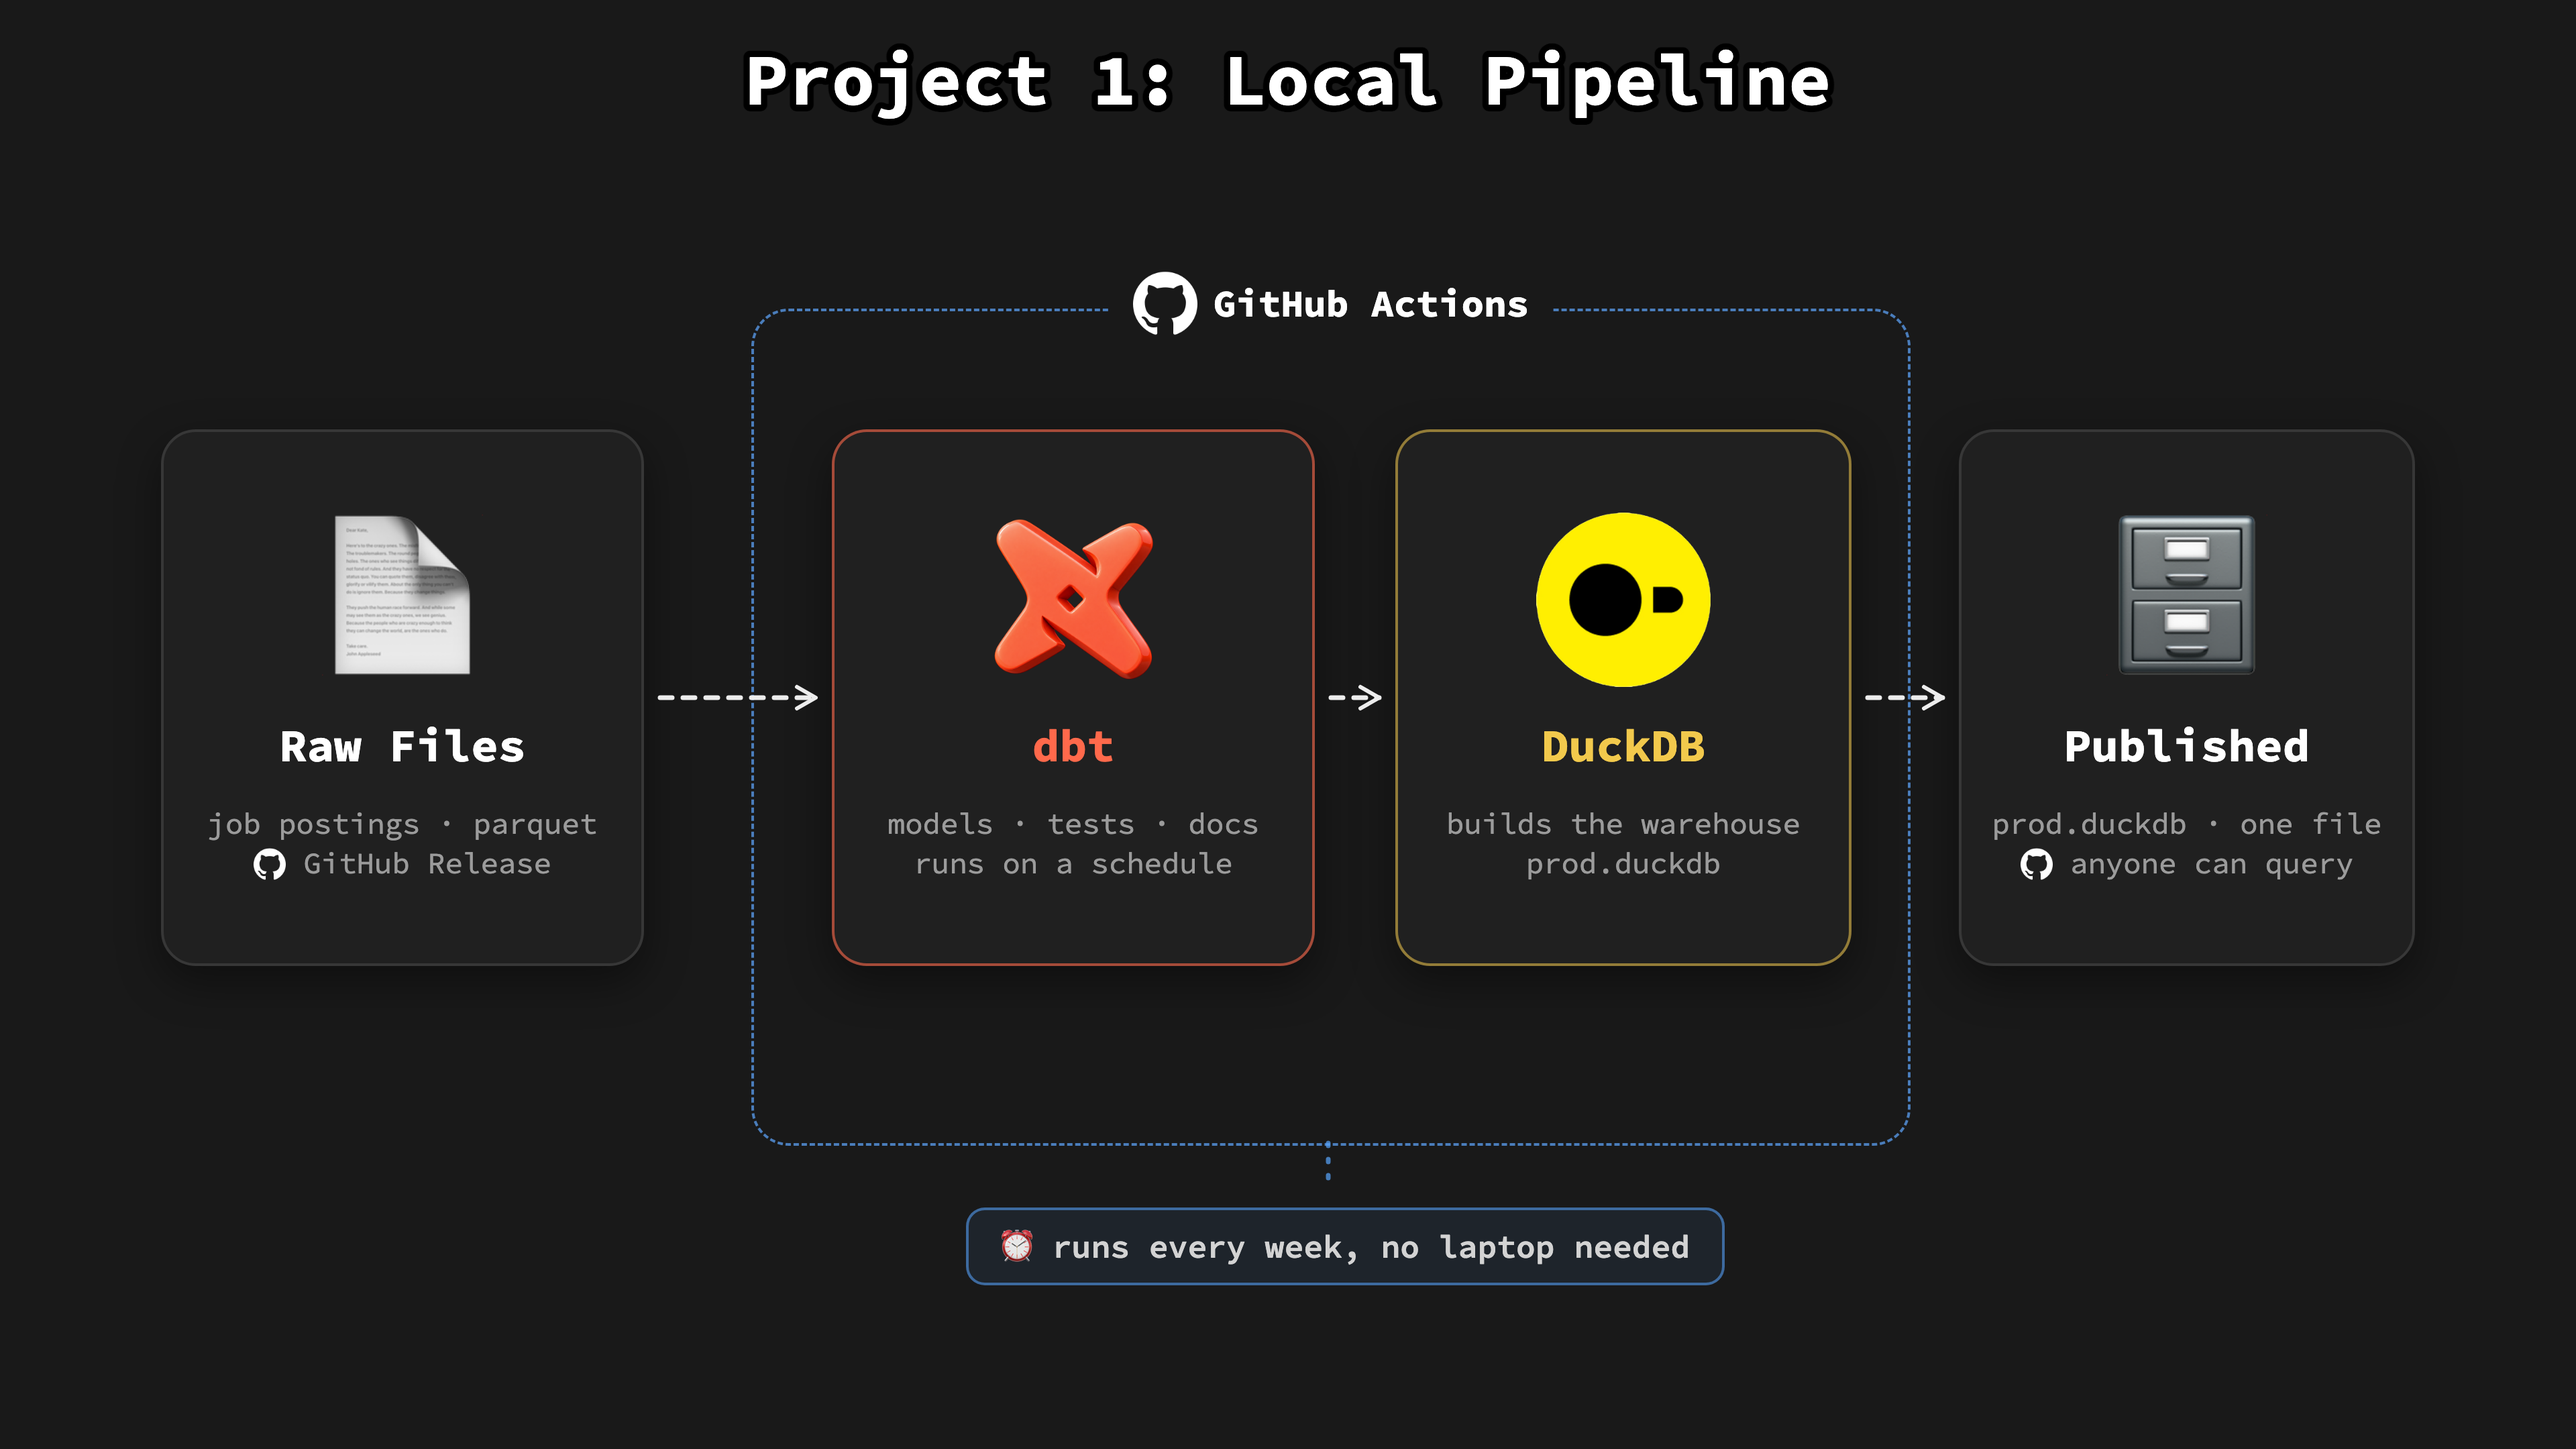
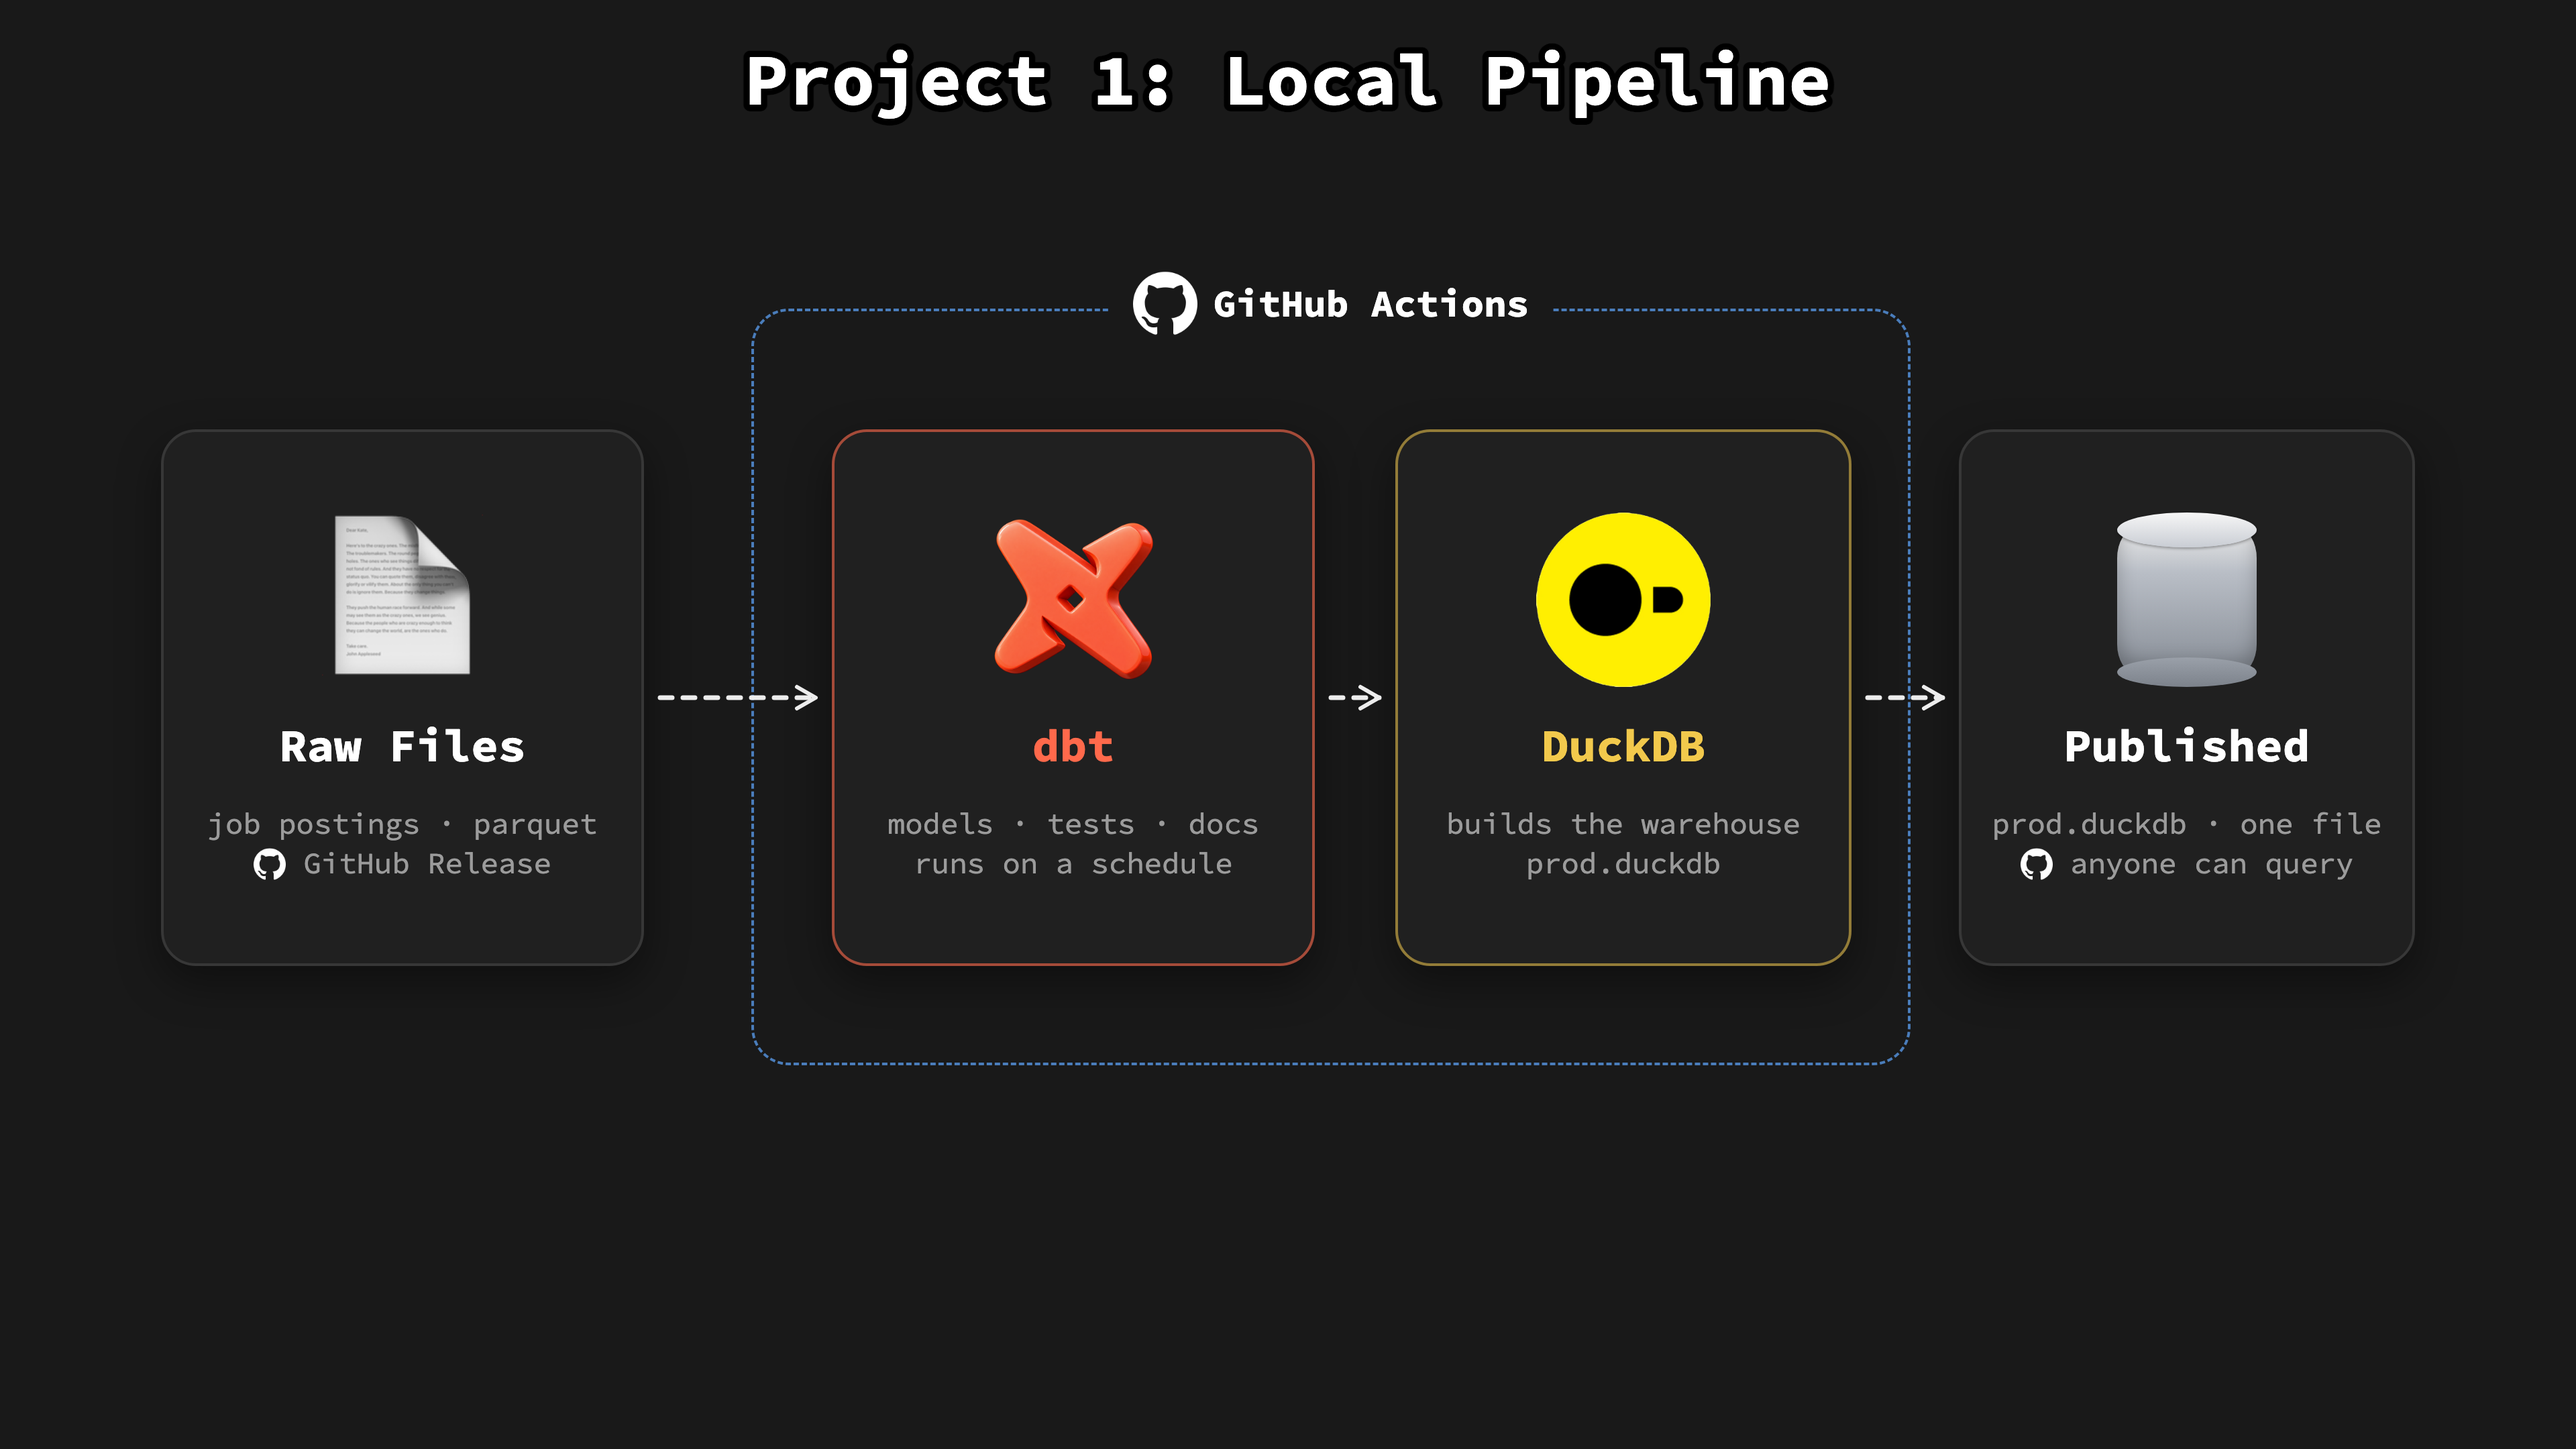
0.03 simplified posters: database cylinders instead of the cabinet emoji, bottom chips removed, zones tightened

Changed region(s): [[0.8125, 0.3412, 0.875, 0.4963], [0.375, 0.8375, 0.6562, 0.8685]]

diff --git a/resources/diagrams/0.03_project_2_simple.html b/resources/diagrams/0.03_project_2_simple.html
@@ -34,6 +34,13 @@
     border:2px solid rgba(88,166,255,.55);border-radius:14px;background:rgba(88,166,255,.08);
     font-family:var(--mono);font-size:24px;font-weight:600;color:var(--text);white-space:nowrap}
   .chip img{height:32px;width:auto}
+  .cyl{position:relative;width:104px;height:130px}
+  .cyl .body{position:absolute;left:0;right:0;top:12px;bottom:10px;border-radius:14px/22px;
+    background:linear-gradient(180deg,#e8e8e8 0%,#b9bec6 30%,#8f959e 90%);box-shadow:inset 0 -8px 14px rgba(0,0,0,.25)}
+  .cyl .top{position:absolute;left:0;right:0;top:0;height:26px;border-radius:50%;
+    background:linear-gradient(180deg,#f6f6f6,#c9cdd4);box-shadow:0 1px 2px rgba(0,0,0,.35)}
+  .cyl .bot{position:absolute;left:0;right:0;bottom:0;height:22px;border-radius:50%;
+    background:linear-gradient(180deg,#9aa0a9,#7c828b)}
   .zone{position:absolute;border:2px dashed #4A7DBB;border-radius:28px}
   .zone .zl{position:absolute;left:0;top:-30px;width:100%;text-align:center}
   .zone .zl span{display:inline-flex;align-items:center;gap:12px;font-family:var(--mono);font-size:28px;font-weight:700;color:#FFFFFF;background:var(--bg);padding:0 18px}
@@ -50,9 +57,9 @@
     <div class="nm">Raw Files</div>
     <div class="cap">job postings · parquet<br><img src="../images/github-white-icon.png" alt="" style="height:24px;width:auto;vertical-align:-5px"> GitHub Release</div>
   </div>
-  <div class="zone" style="left:560px;top:230px;width:1260px;height:620px"><div class="zl"><span><img src="../images/Databricks_logo.png" alt="">Databricks</span></div></div>
+  <div class="zone" style="left:560px;top:230px;width:1260px;height:560px"><div class="zl"><span><img src="../images/Databricks_logo.png" alt="">Databricks</span></div></div>
   <div class="card" style="left:620px;top:320px;width:360px;height:400px">
-    <div class="ic">🪣</div>
+    <div class="ic"><div class="cyl"><div class="body"></div><div class="top"></div><div class="bot"></div></div></div>
     <div class="nm">Raw Catalog</div>
     <div class="cap">load_raw.py<br>lands the files</div>
   </div>
@@ -62,11 +69,10 @@
     <div class="cap">staging → intermediate<br>→ marts (star schema)</div>
   </div>
   <div class="card duck" style="left:1460px;top:320px;width:340px;height:400px">
-    <div class="ic">🗄</div>
+    <div class="ic"><div class="cyl"><div class="body"></div><div class="top"></div><div class="bot"></div></div></div>
     <div class="nm">Prod</div>
     <div class="cap">tested · documented<br>warehouse</div>
   </div>
-  <div class="chip" style="left:846px;top:900px"><img src="../images/Databricks_logo.png" alt="">a Databricks job runs it nightly</div>
   <svg class="art" viewBox="0 0 1920 1080">
     <defs>
       <marker id="one" viewBox="0 0 26 26" markerWidth="26" markerHeight="26" refX="13" refY="13" orient="auto-start-reverse" markerUnits="userSpaceOnUse">
@@ -82,7 +88,6 @@
     <path d="M 492 520 L 608 520" fill="none" stroke="#EDEDED" stroke-width="3.5" stroke-dasharray="9 8" stroke-linecap="round" marker-end="url(#arr)"/>
     <path d="M 992 520 L 1028 520" fill="none" stroke="#EDEDED" stroke-width="3.5" stroke-dasharray="9 8" stroke-linecap="round" marker-end="url(#arr)"/>
     <path d="M 1412 520 L 1448 520" fill="none" stroke="#EDEDED" stroke-width="3.5" stroke-dasharray="9 8" stroke-linecap="round" marker-end="url(#arr)"/>
-    <path d="M 1190 852 L 1190 886" fill="none" stroke="rgba(88,166,255,.7)" stroke-width="3.5" stroke-dasharray="2 10" stroke-linecap="round"/>
   </svg>
 
 </div>

diff --git a/resources/diagrams/0.03_project_1_simple.html b/resources/diagrams/0.03_project_1_simple.html
@@ -34,6 +34,13 @@
     border:2px solid rgba(88,166,255,.55);border-radius:14px;background:rgba(88,166,255,.08);
     font-family:var(--mono);font-size:24px;font-weight:600;color:var(--text);white-space:nowrap}
   .chip img{height:32px;width:auto}
+  .cyl{position:relative;width:104px;height:130px}
+  .cyl .body{position:absolute;left:0;right:0;top:12px;bottom:10px;border-radius:14px/22px;
+    background:linear-gradient(180deg,#e8e8e8 0%,#b9bec6 30%,#8f959e 90%);box-shadow:inset 0 -8px 14px rgba(0,0,0,.25)}
+  .cyl .top{position:absolute;left:0;right:0;top:0;height:26px;border-radius:50%;
+    background:linear-gradient(180deg,#f6f6f6,#c9cdd4);box-shadow:0 1px 2px rgba(0,0,0,.35)}
+  .cyl .bot{position:absolute;left:0;right:0;bottom:0;height:22px;border-radius:50%;
+    background:linear-gradient(180deg,#9aa0a9,#7c828b)}
   .zone{position:absolute;border:2px dashed #4A7DBB;border-radius:28px}
   .zone .zl{position:absolute;left:0;top:-30px;width:100%;text-align:center}
   .zone .zl span{display:inline-flex;align-items:center;gap:12px;font-family:var(--mono);font-size:28px;font-weight:700;color:#FFFFFF;background:var(--bg);padding:0 18px}
@@ -50,7 +57,7 @@
     <div class="nm">Raw Files</div>
     <div class="cap">job postings · parquet<br><img src="../images/github-white-icon.png" alt="" style="height:24px;width:auto;vertical-align:-5px"> GitHub Release</div>
   </div>
-  <div class="zone" style="left:560px;top:230px;width:860px;height:620px"><div class="zl"><span><img src="../images/github-white-icon.png" alt="">GitHub Actions</span></div></div>
+  <div class="zone" style="left:560px;top:230px;width:860px;height:560px"><div class="zl"><span><img src="../images/github-white-icon.png" alt="">GitHub Actions</span></div></div>
   <div class="card dbt" style="left:620px;top:320px;width:360px;height:400px">
     <div class="ic"><img src="../images/dbt_logo.png" alt=""></div>
     <div class="nm">dbt</div>
@@ -62,11 +69,10 @@
     <div class="cap">builds the warehouse<br>prod.duckdb</div>
   </div>
   <div class="card" style="left:1460px;top:320px;width:340px;height:400px">
-    <div class="ic">🗄</div>
+    <div class="ic"><div class="cyl"><div class="body"></div><div class="top"></div><div class="bot"></div></div></div>
     <div class="nm">Published</div>
     <div class="cap">prod.duckdb · one file<br><img src="../images/github-white-icon.png" alt="" style="height:24px;width:auto;vertical-align:-5px"> anyone can query</div>
   </div>
-  <div class="chip" style="left:720px;top:900px">⏰ runs every week, no laptop needed</div>
   <svg class="art" viewBox="0 0 1920 1080">
     <defs>
       <marker id="one" viewBox="0 0 26 26" markerWidth="26" markerHeight="26" refX="13" refY="13" orient="auto-start-reverse" markerUnits="userSpaceOnUse">
@@ -82,7 +88,6 @@
     <path d="M 492 520 L 608 520" fill="none" stroke="#EDEDED" stroke-width="3.5" stroke-dasharray="9 8" stroke-linecap="round" marker-end="url(#arr)"/>
     <path d="M 992 520 L 1028 520" fill="none" stroke="#EDEDED" stroke-width="3.5" stroke-dasharray="9 8" stroke-linecap="round" marker-end="url(#arr)"/>
     <path d="M 1392 520 L 1448 520" fill="none" stroke="#EDEDED" stroke-width="3.5" stroke-dasharray="9 8" stroke-linecap="round" marker-end="url(#arr)"/>
-    <path d="M 990 852 L 990 886" fill="none" stroke="rgba(88,166,255,.7)" stroke-width="3.5" stroke-dasharray="2 10" stroke-linecap="round"/>
   </svg>
 </div>
 </body>
